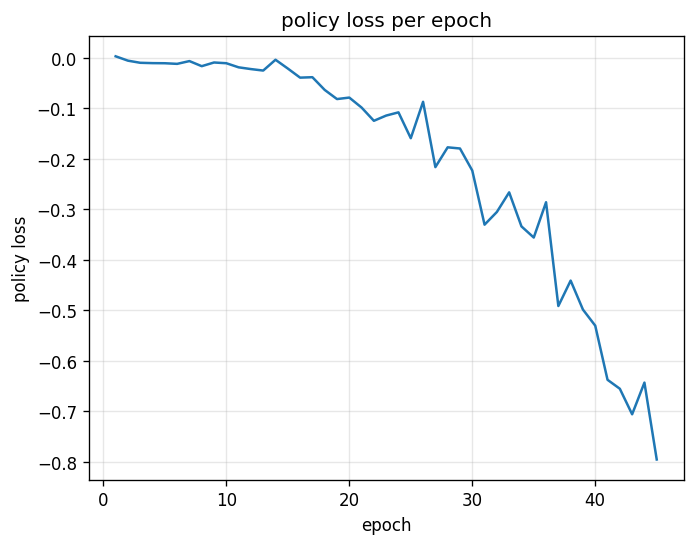
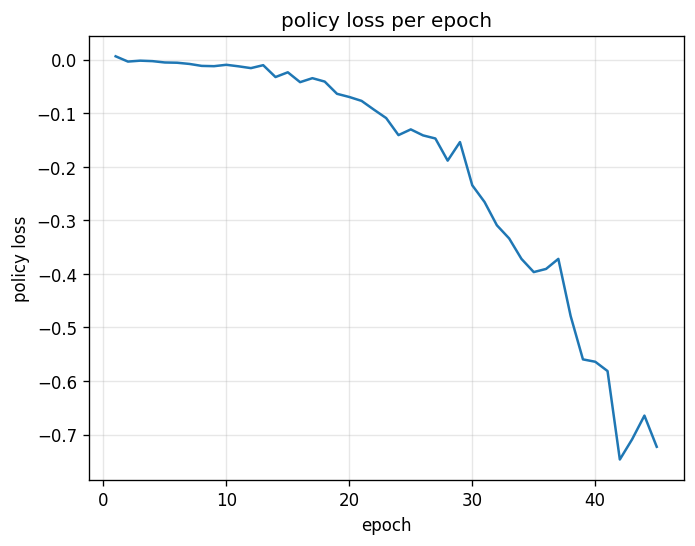
actor-critic

diff --git a/main.py b/main.py
@@ -10,7 +10,6 @@ import matplotlib.pyplot as plt
 import gymnasium as gym
 from gymnasium.spaces import Discrete, Box
 
-
 CHECKPOINT_DIR = "checkpoints"
 FIGURES_DIR = "figures"
 ENV_ID = "LunarLander-v3"
@@ -49,22 +48,45 @@ class Policy(nn.Module):
         entropy = dist.entropy().sum(-1)
         return action, log_prob, entropy
 
+class Critic(nn.Module):
+    def __init__(self, obs_dims):
+        super().__init__()
+        self.net = nn.Sequential(
+            nn.Linear(obs_dims, 64), nn.GELU(),
+            nn.Linear(64, 64), nn.GELU(),
+            nn.Linear(64, 1),
+        )
+    
+    def forward(self, obs):
+        return self.net(obs).squeeze(-1)
 
-def train(lr=1e-3, epochs=45, batch_size=90000, gamma=0.985, entropy_coef=0.001, render=False):
-    os.makedirs(CHECKPOINT_DIR, exist_ok=True)
+def reward_to_go(rews, dones, gamma):
+    # rews, dones: (T, num_envs). dones[t, i] = True iff env i terminated at step t.
+    # Returns discounted reward-to-go with the same shape, reset at episode boundaries.
+    rews = np.asarray(rews, dtype=np.float32)
+    dones = np.asarray(dones, dtype=np.float32)
+    out = np.empty_like(rews)
+    running = np.zeros(rews.shape[1:], dtype=np.float32)
+    for t in range(rews.shape[0] - 1, -1, -1):
+        running = rews[t] + gamma * running * (1.0 - dones[t])
+        out[t] = running
+    return out
 
-    env = gym.make(ENV_ID, **ENV_KWARGS)
+
+def train(lr=1e-3, batches=100000, batch_step=10, gamma=0.985, entropy_coef=0.001, render=False):
+    envs = gym.make_vec(ENV_ID,
+                           num_envs = 15,
+                           vectorization_mode="async",
+                           **ENV_KWARGS)
     demo_env = gym.make(ENV_ID, render_mode="human", **ENV_KWARGS) if render else None
 
-    obs_dim = env.observation_space.shape[0]
-    n_actions = env.action_space.shape[0]
+    obs_dim = envs.single_observation_space.shape[0]
+    n_actions = envs.single_action_space.shape[0]
 
     model = Policy(obs_dim, n_actions)
-    
-    def compute_loss(log_prob, weights, entropy):
-        return -(log_prob*weights).mean() - entropy_coef * entropy.mean()
-
-    optimizer = Adam(model.parameters(), lr=lr)
+    critic = Critic(obs_dim)
+    actor_optimizer = Adam(model.parameters(), lr=lr)
+    critic_optimizer = Adam(critic.parameters(), lr=lr)
 
     def run_demo_episode():
         obs, _ = demo_env.reset()
@@ -73,102 +95,119 @@ def train(lr=1e-3, epochs=45, batch_size=90000, gamma=0.985, entropy_coef=0.001,
             act, _, _ = model.act(torch.as_tensor(obs, dtype=torch.float32))
             obs, _, terminated, truncated, _ = demo_env.step(act.detach().numpy())
             done = terminated or truncated
-    
-    def reward_to_go(rews):
-        out, running = [], 0.0
-        for r in reversed(rews):
-            running = r + gamma * running
-            out.append(running)
-        return out[::-1]
 
-    def epoch():
-        batch_obs = []
-        batch_acts = []
-        batch_log_probs = []
-        batch_entropies = []
-        batch_weights = []
-        batch_rets = []
-        batch_lens = []
+    T, N = batch_step, envs.num_envs
+    obs_buf  = np.zeros((T, N, obs_dim), dtype=np.float32)
+    rew_buf  = np.zeros((T, N), dtype=np.float32)
+    done_buf = np.zeros((T, N), dtype=np.float32)
+    logp_buf = [None] * T
+    ent_buf  = [None] * T
 
-        obs, _ = env.reset()
-        done = False
-        ep_rews = []
+    ep_returns_log = []
+    ep_lengths_log = []
+    ep_ret_running = np.zeros(N, dtype=np.float32)
+    ep_len_running = np.zeros(N, dtype=np.int64)
 
-        while True:
+    obs, _ = envs.reset()
 
-            # save obs
-            batch_obs.append(obs.copy())
+    def run_batch(obs):
+        nonlocal ep_ret_running, ep_len_running
+        for t in range(T):
+            obs_buf[t] = obs
+            act, log_prob, entropy = model.act(torch.as_tensor(obs, dtype=torch.float32))
+            logp_buf[t] = log_prob
+            ent_buf[t]  = entropy
+            obs, rew, term, trunc, _ = envs.step(act.detach().numpy())
+            rew_buf[t]  = rew
+            done = term | trunc
+            done_buf[t] = done
 
-            # act in the environment
-            act, log_probs, entropy = model.act(torch.as_tensor(obs, dtype=torch.float32))
-            obs, rew, terminated, truncated, _ = env.step(act.detach().numpy())
-            done = terminated or truncated
+            ep_ret_running += rew
+            ep_len_running += 1
+            for i in np.where(done)[0]:
+                ep_returns_log.append(float(ep_ret_running[i]))
+                ep_lengths_log.append(int(ep_len_running[i]))
+            ep_ret_running[done] = 0.0
+            ep_len_running[done] = 0
 
-            # save action, reward
-            batch_acts.append(act)
-            batch_log_probs.append(log_probs)
-            batch_entropies.append(entropy)
-            ep_rews.append(rew)
+        rtg = reward_to_go(rew_buf, done_buf, gamma)               # (T, N)
+        returns = torch.as_tensor(rtg.reshape(-1), dtype=torch.float32)  # (T*N,)
 
-            if done:
-                # if episode is over, record info about episode
-                ep_ret, ep_len = sum(ep_rews), len(ep_rews)
-                batch_rets.append(ep_ret)
-                batch_lens.append(ep_len)
+        flat_obs = torch.as_tensor(obs_buf.reshape(T * N, obs_dim), dtype=torch.float32)
+        values = critic(flat_obs)                                  # (T*N,) with grad
 
-                # the weight for each logprob(a|s) is R(tau)
-                batch_weights += list(reward_to_go(ep_rews))
+        advantage = (returns - values).detach()
+        advantage = (advantage - advantage.mean()) / (advantage.std() + 1e-8)
 
-                # reset episode-specific variables
-                obs, _ = env.reset()
-                done = False
-                ep_rews = []
+        log_probs = torch.stack(logp_buf).reshape(-1)              # (T*N,)
+        entropies = torch.stack(ent_buf).reshape(-1)               # (T*N,)
 
-                # end experience loop if we have enough of it
-                if len(batch_obs) > batch_size:
-                    break
+        actor_loss = -(log_probs * advantage).mean() - entropy_coef * entropies.mean()
+        critic_loss = ((returns - values) ** 2).mean()
 
-        # take a single policy gradient update step
-        optimizer.zero_grad()
-        weights = torch.as_tensor(batch_weights, dtype=torch.float32)
-        weights = (weights - weights.mean()) / (weights.std())
-        batch_loss = compute_loss(torch.stack(batch_log_probs), weights, torch.stack(batch_entropies))
-        batch_loss.backward()
-        optimizer.step()
-        return batch_loss.item(), batch_rets, batch_lens
-    
-    losses, mean_returns, mean_ep_lens = [], [], []
-    for i in range(epochs):
-        if render:
-            run_demo_episode()
-        batch_loss, batch_rets, batch_lens = epoch()
-        losses.append(batch_loss)
-        mean_returns.append(float(np.mean(batch_rets)))
-        mean_ep_lens.append(float(np.mean(batch_lens)))
-        print('epoch: %3d \t loss: %.3f \t return: %.3f \t ep_len: %.3f' %
-              (i, batch_loss, mean_returns[-1], mean_ep_lens[-1]))
+        actor_optimizer.zero_grad()
+        actor_loss.backward()
+        actor_optimizer.step()
 
+        critic_optimizer.zero_grad()
+        critic_loss.backward()
+        critic_optimizer.step()
+
+        return obs, actor_loss.item(), critic_loss.item(), rew_buf.sum(0).mean()
+
+    os.makedirs(CHECKPOINT_DIR, exist_ok=True)
     ckpt_path = os.path.join(CHECKPOINT_DIR, "policy.pt")
+
+    actor_losses, critic_losses = [], []
+    for b in range(batches):
+        obs, a_loss, c_loss, mean_rew = run_batch(obs)
+        actor_losses.append(a_loss)
+        critic_losses.append(c_loss)
+        if b % 1000 == 0:
+            recent_ret = float(np.mean(ep_returns_log[-50:])) if ep_returns_log else float("nan")
+            print(f"batch {b:6d} | actor {a_loss:+.3f} | critic {c_loss:.3f} | window rew {mean_rew:+.3f} | recent ep return {recent_ret:+.3f}")
+            if b > 0:
+                torch.save(model.state_dict(), ckpt_path)
+                print(f"  [periodic] saved checkpoint at batch {b} -> {ckpt_path}")
+                if render:
+                    run_demo_episode()
+
     torch.save(model.state_dict(), ckpt_path)
     print(f"saved checkpoint to {ckpt_path}")
 
-    save_training_figures(losses, mean_returns, mean_ep_lens)
+    save_training_figures(actor_losses, critic_losses, ep_returns_log, ep_lengths_log)
 
 
-def save_training_figures(losses, mean_returns, mean_ep_lens):
+def save_training_figures(actor_losses, critic_losses, ep_returns, ep_lengths):
     os.makedirs(FIGURES_DIR, exist_ok=True)
-    epochs_axis = range(1, len(losses) + 1)
 
-    for name, values, ylabel in [
-        ("loss", losses, "policy loss"),
-        ("return", mean_returns, "mean episode return"),
-        ("episode_length", mean_ep_lens, "mean episode length"),
-    ]:
+    def smooth(values, window):
+        if len(values) < window or window < 2:
+            return np.asarray(values, dtype=np.float32)
+        cs = np.cumsum(np.insert(np.asarray(values, dtype=np.float32), 0, 0.0))
+        return (cs[window:] - cs[:-window]) / window
+
+    panels = [
+        ("actor_loss",     actor_losses,  "actor loss",     "batch"),
+        ("critic_loss",    critic_losses, "critic loss",    "batch"),
+        ("return",         ep_returns,    "episode return", "completed episode"),
+        ("episode_length", ep_lengths,    "episode length", "completed episode"),
+    ]
+    for name, values, ylabel, xlabel in panels:
+        if len(values) == 0:
+            print(f"skipping {name}: no data")
+            continue
+        window = max(1, min(200, len(values) // 20))
+        smoothed = smooth(values, window)
         fig, ax = plt.subplots()
-        ax.plot(epochs_axis, values)
-        ax.set_xlabel("epoch")
+        ax.plot(values, alpha=0.25, label="raw")
+        if len(smoothed) > 0 and window > 1:
+            offset = len(values) - len(smoothed)
+            ax.plot(range(offset, len(values)), smoothed, label=f"smoothed (w={window})")
+            ax.legend()
+        ax.set_xlabel(xlabel)
         ax.set_ylabel(ylabel)
-        ax.set_title(f"{ylabel} per epoch")
+        ax.set_title(f"{ylabel}")
         ax.grid(True, alpha=0.3)
         out_path = os.path.join(FIGURES_DIR, f"{name}.png")
         fig.savefig(out_path, dpi=120, bbox_inches="tight")
@@ -176,40 +215,8 @@ def save_training_figures(losses, mean_returns, mean_ep_lens):
         print(f"saved figure to {out_path}")
 
 
-def demo(checkpoint_path, n_episodes=5):
-    env = gym.make(ENV_ID, render_mode="human", **ENV_KWARGS)
-    obs_dim = env.observation_space.shape[0]
-    act_dim = env.action_space.shape[0]
-
-    model = Policy(obs_dim, act_dim)
-    model.load_state_dict(torch.load(checkpoint_path))
-
-    for ep in range(n_episodes):
-        obs, _ = env.reset()
-        done = False
-        total = 0.0
-        while not done:
-            with torch.no_grad():
-                act, _, _ = model.act(torch.as_tensor(obs, dtype=torch.float32))
-            obs, rew, terminated, truncated, _ = env.step(act.numpy())
-            total += rew
-            done = terminated or truncated
-        print(f"episode {ep+1}: return = {total:.2f}")
-
-    env.close()
-
-
-if __name__ == '__main__':
+if __name__ == "__main__":
     parser = argparse.ArgumentParser()
-    parser.add_argument("mode", choices=["train", "demo"])
-    parser.add_argument("--checkpoint", type=str, help="path to checkpoint (required for demo)")
-    parser.add_argument("--episodes", type=int, default=10, help="number of demo episodes")
-    parser.add_argument("--render", action="store_true", help="render an episode each epoch during training")
+    parser.add_argument("--render", action="store_true", help="show a live demo episode every 1000 batches")
     args = parser.parse_args()
-
-    if args.mode == "train":
-        train(render=args.render)
-    else:
-        if args.checkpoint is None:
-            parser.error("--checkpoint is required for demo mode")
-        demo(args.checkpoint, n_episodes=args.episodes)
+    train(render=args.render)
